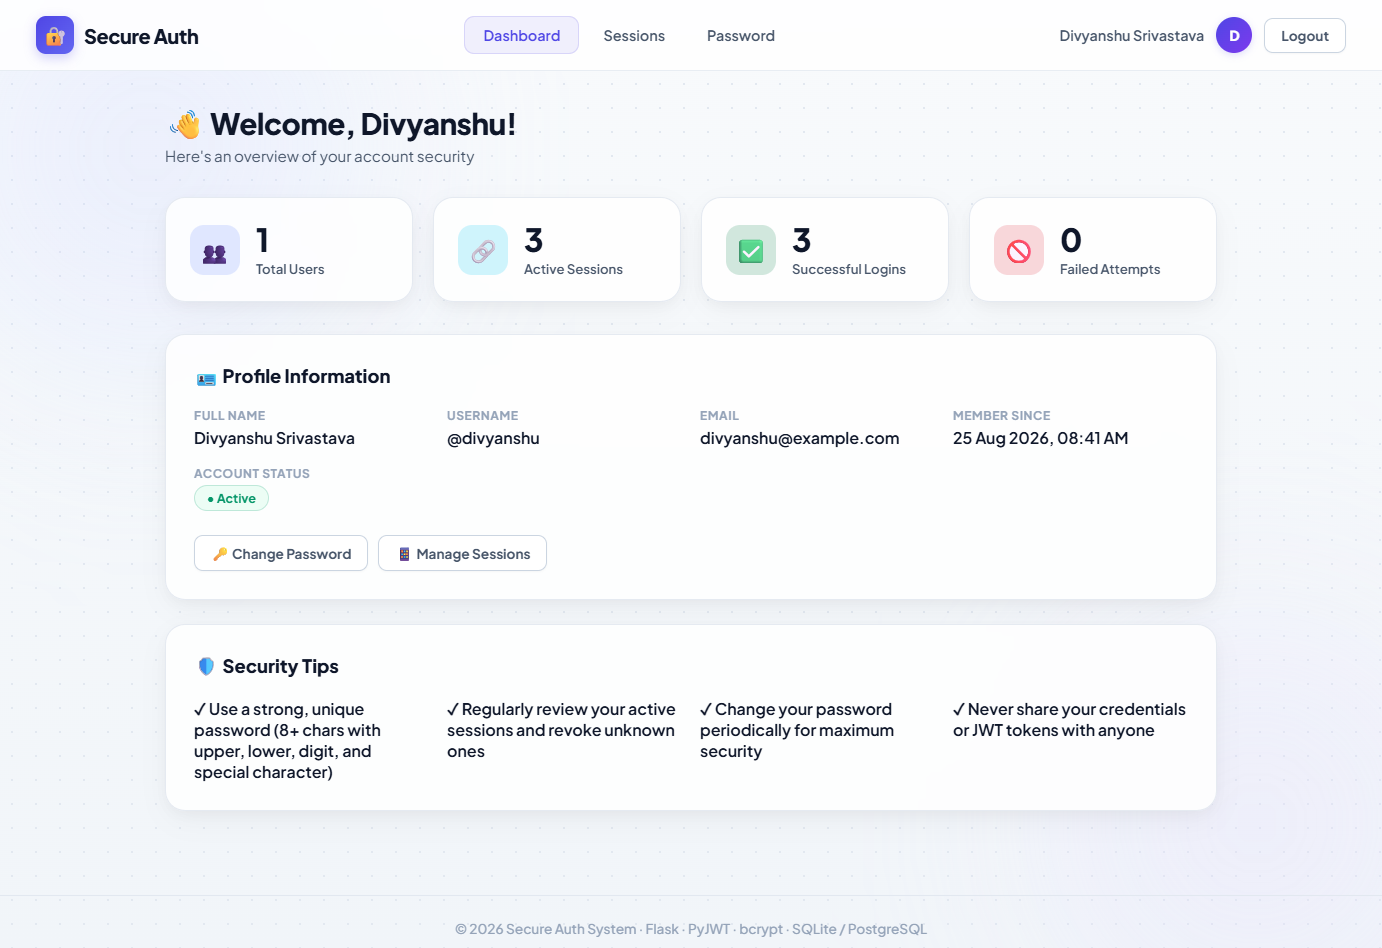
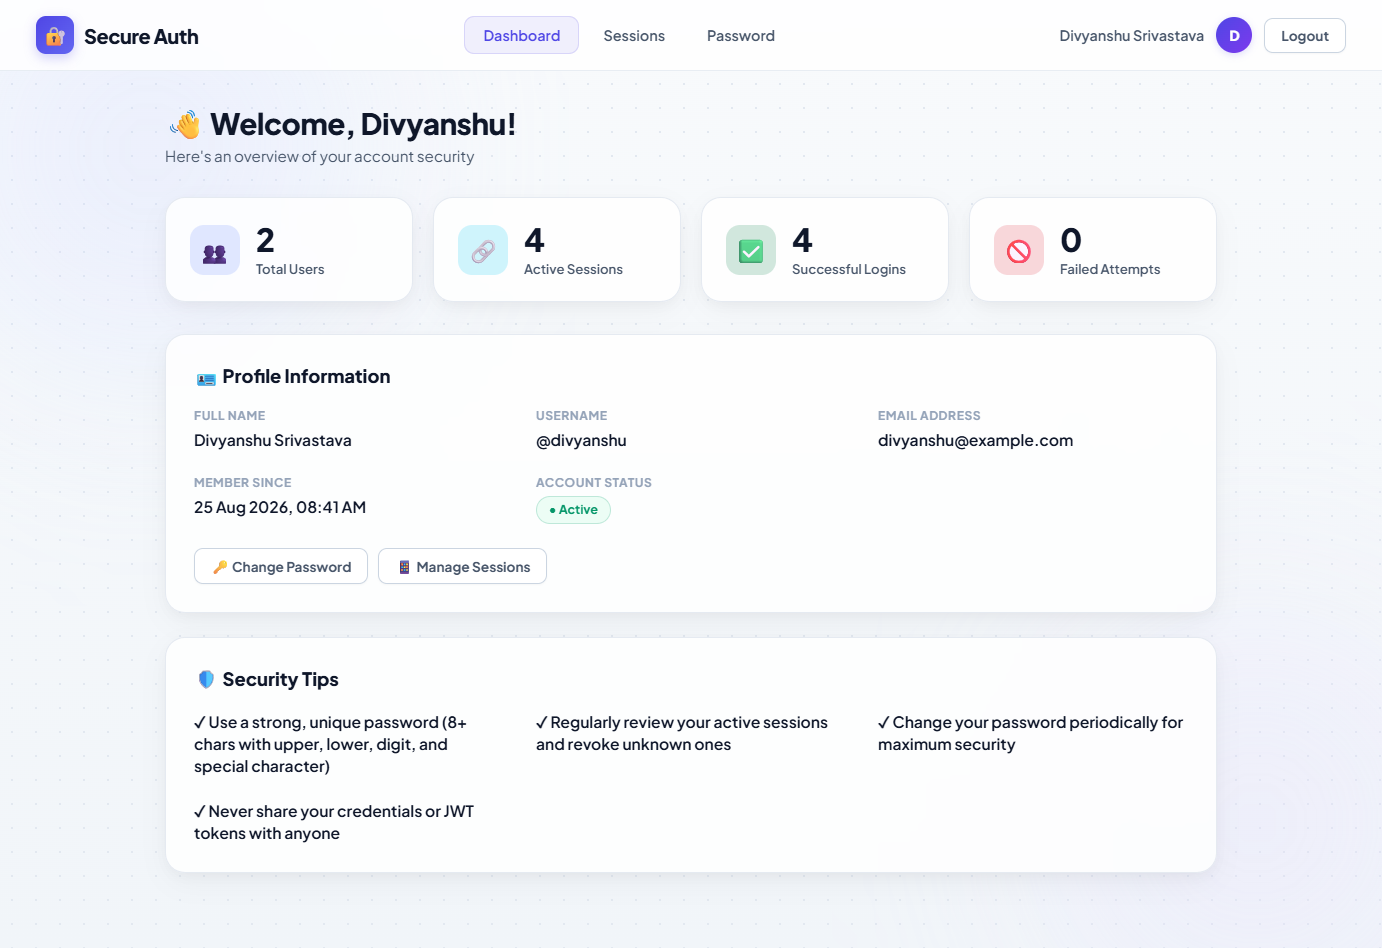
Fix Profile Information grid layout: resolve text wrapping and column overlap for Email and Member Since fields

diff --git a/static/style.css b/static/style.css
@@ -336,15 +336,21 @@ a:hover { color: var(--accent-primary-hover); text-decoration: underline; }
   color: var(--text-main);
 }
 .info-grid {
-  display: grid; grid-template-columns: repeat(auto-fit, minmax(220px, 1fr));
-  gap: 18px;
+  display: grid; grid-template-columns: repeat(auto-fit, minmax(240px, 1fr));
+  gap: 24px 32px;
 }
-.info-row { display: flex; flex-direction: column; gap: 4px; }
+.profile-grid {
+  grid-template-columns: repeat(auto-fit, minmax(260px, 1fr));
+}
+.info-row { display: flex; flex-direction: column; gap: 6px; min-width: 0; }
 .info-row .label {
   font-size: 0.75rem; text-transform: uppercase;
   letter-spacing: 0.6px; color: var(--text-subtle); font-weight: 700;
 }
-.info-row .value { font-size: 1rem; font-weight: 600; color: var(--text-main); }
+.info-row .value {
+  font-size: 0.98rem; font-weight: 600; color: var(--text-main);
+  word-break: break-word; overflow-wrap: anywhere; line-height: 1.4;
+}
 
 .actions-row { display: flex; gap: 10px; flex-wrap: wrap; margin-top: 24px; }
 

diff --git a/templates/dashboard.html b/templates/dashboard.html
@@ -62,7 +62,7 @@
   <!-- Profile Info -->
   <div class="info-card glass">
     <h2>🪪 Profile Information</h2>
-    <div class="info-grid">
+    <div class="info-grid profile-grid">
       <div class="info-row">
         <span class="label">Full Name</span>
         <span class="value">{{ user.full_name }}</span>
@@ -72,7 +72,7 @@
         <span class="value">@{{ user.username }}</span>
       </div>
       <div class="info-row">
-        <span class="label">Email</span>
+        <span class="label">Email Address</span>
         <span class="value">{{ user.email }}</span>
       </div>
       <div class="info-row">
